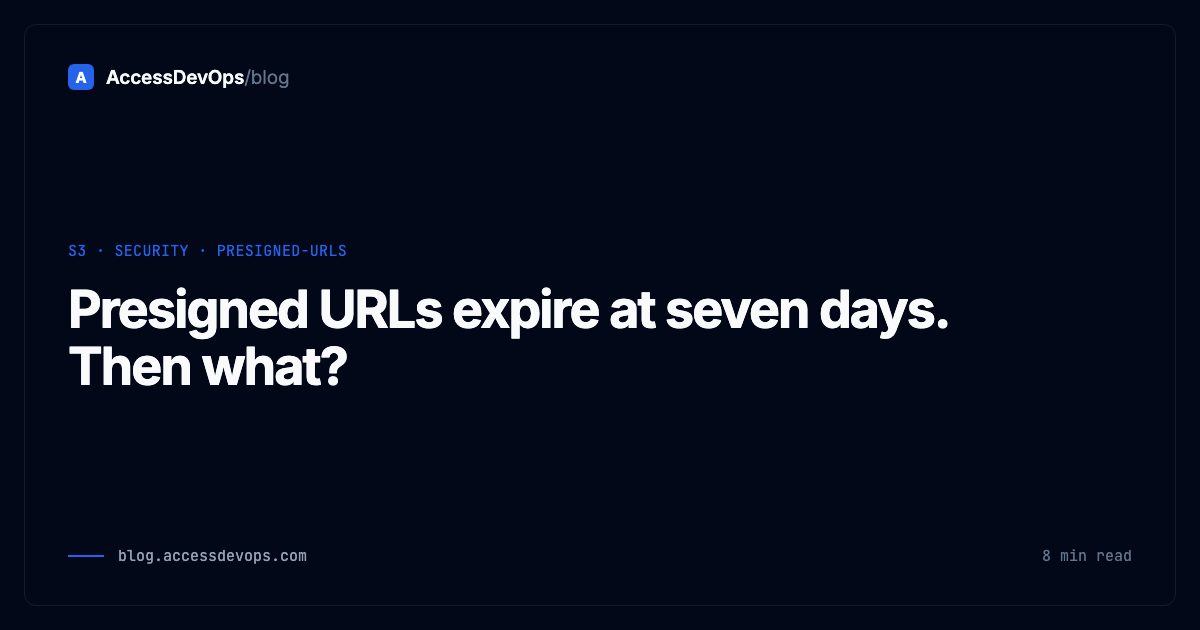
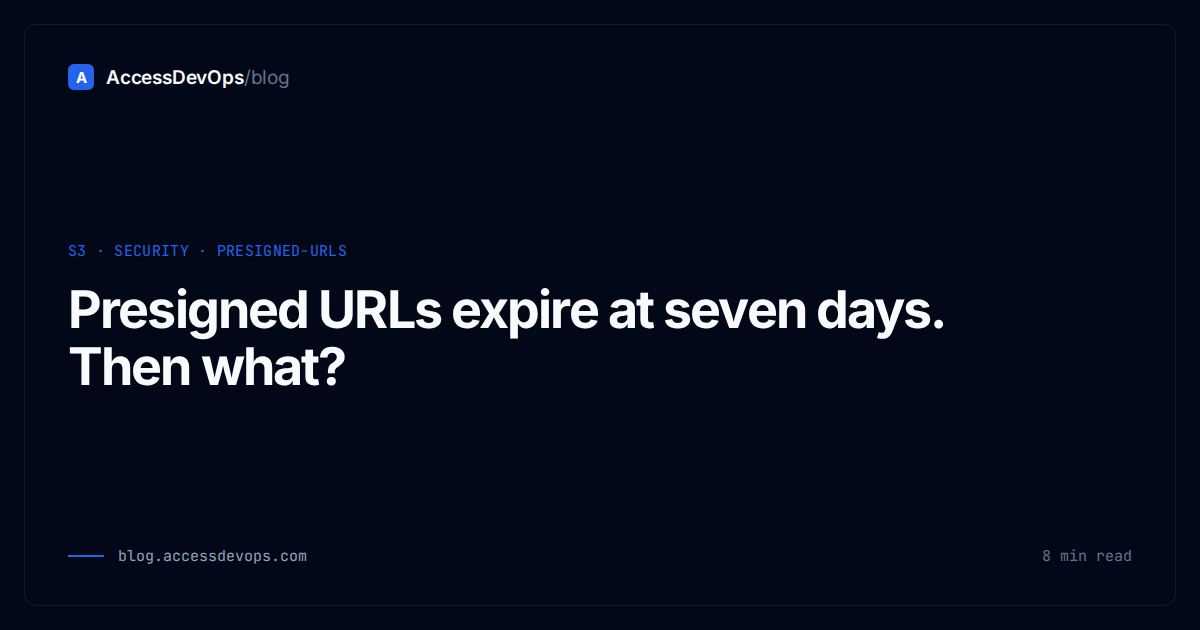
Article: presigned-url-leakage
Chosen for criterion 3: no PostHog key and no Search Console export in this environment, so criteria 1 and 2 are not executable; this topic moves the presigned-urls tag from 1 to 2 posts, making /tags/presigned-urls indexable, and it corrects the s3:signatureAge unit in the sibling article (milliseconds, not seconds).

diff --git a/content/blog/presigned-url-leakage.md b/content/blog/presigned-url-leakage.md
@@ -1,0 +1,189 @@
+---
+title: "Presigned URLs leak into logs, referrers and chat"
+description: "A presigned URL is a working credential stored as text. Where the copy ends up, what it still grants after redaction, and the 15-minute fix."
+date: 2026-11-04
+author: "Clement Baranger"
+tags: ["s3", "security", "presigned-urls"]
+guide: share-s3-file-presigned-url
+related: [presigned-url-seven-day-ceiling, presigned-post-enforce-size-content-type]
+---
+
+A support ticket reads: "the invoice link does not work". The link was pasted into the ticket by an engineer, copied into a CRM note by a salesperson, and fetched by the mail gateway that scanned the ticket. Three copies of a valid credential, in three systems that keep text for years, and one expiry date that nobody in the conversation controls.
+
+## The short version
+
+- A presigned URL is not a link to a file. It is a signature — a working credential written into the address of the object.
+- Anyone holding the string can fetch the object until the moment written inside it. No password, no identity check, no record of who used it.
+- Measured today with botocore 1.43: a 900-second `GET` link is **334 characters**, **1 009** when signed with a session token. The signature is 64 of those characters, and it is the only part that grants access.
+- Every system that stores URIs keeps a copy — access log, CDN, WAF, TLS proxy, the chat client that builds a preview, the ticket where it was pasted — and most keep it for a year, redacting nothing.
+- Kill one leaked URL by deleting its access key and every other live link signed with that key dies in the same second.
+
+## What actually happens
+
+Presigning is arithmetic performed on the client: a canonical request is hashed with a key derived from the secret access key, the date, the region and the service, and the result is appended to the URL. No API call is made — which is why it works offline, and why nobody can stop you from generating a bad one.
+
+That also means the credential is readable text. Building a URL with a throwaway key pair and printing its parameters gives the inventory:
+
+```bash
+python3 -m venv presign-venv && ./presign-venv/bin/pip -q install boto3
+```
+
+```python
+# presign-one.py — no AWS account, no network: fake keys produce a valid structure
+import boto3, urllib.parse
+from botocore.config import Config
+
+s3 = boto3.client("s3",
+    aws_access_key_id="AKIAIOSFODNN7EXAMPLE",
+    aws_secret_access_key="wJalrXUtnFEMI/K7MDENG/bPxRfiCYEXAMPLEKEY",
+    region_name="eu-west-3",
+    config=Config(signature_version="s3v4", s3={"addressing_style": "virtual"}))
+
+url = s3.generate_presigned_url("get_object",
+    Params={"Bucket": "docs-prod", "Key": "contracts/acme-2026.pdf"}, ExpiresIn=900)
+
+print(len(url))                                    # 334
+for k, v in urllib.parse.parse_qsl(urllib.parse.urlparse(url).query):
+    print(f"{k:24} {len(v):4}  {urllib.parse.unquote(v)[:60]}")
+```
+
+The output, trimmed to the columns that matter:
+
+```text
+X-Amz-Algorithm          value=16  AWS4-HMAC-SHA256
+X-Amz-Credential         value=55  <access key id>/20261104/eu-west-3/s3/aws4_request
+X-Amz-Date               value=16  20261104T110619Z
+X-Amz-Expires            value=3   900
+X-Amz-SignedHeaders      value=4   host
+X-Amz-Signature          value=64  4b4ec51ce28bf30ce5e92301ee45a6...
+```
+
+Three things follow from that listing, and none of them is visible when the URL is a blue link in a chat window.
+
+**The URL names the principal.** `X-Amz-Credential` carries the access key ID in clear, with the signing date, region and service. A leaked URL tells the reader which key to hunt for. Signed with temporary credentials, the same query string carries `X-Amz-Security-Token` — 653 characters in the same test, taking the URL to 1 009. That token is not a credential on its own, since SigV4 still needs the matching secret, but it pins the session: a log reader knows which role signed the link and when it ends.
+
+**Only one header is signed.** `X-Amz-SignedHeaders` is `host`. Everything else — `Range`, `User-Agent`, conditional headers — can be added or changed by whoever holds the URL. A 5 GB object behind a 15-minute link is not a 15-minute download: it is as many ranged requests as the holder cares to send inside the window. AWS documents the mirror image in its FAQ — once `Range` *is* signed, S3 demands `If-Range` be signed too, and answers `AccessDenied` with `HeadersNotSigned: if-range` when it is not.
+
+**There is no handle to revoke.** AWS states the position plainly: "In essence, presigned URLs are bearer tokens that grant access to those who possess them." The server never asks who is calling. There is no list of issued URLs, no per-URL delete, no IP binding, no single-use mode — only the expiry inside the link and the validity of the credential behind it.
+
+![Diagram: a presigned URL leaves the signer and is copied into four stores — an application log, a CDN log, a TLS proxy and a chat preview — with the signature granting access until expiry](/diagrams/presigned-url-leakage.svg)
+
+## Where it bites
+
+The interesting part is not that a URL can leak. It is that the industry-standard mitigation removes the wrong half.
+
+AWS's prescriptive guidance on presigned URLs recommends redacting the `X-Amz-Signature` parameter from any URI log, and says S3 does it: "Amazon S3 server access logs include the request URI but redact the `X-Amz-Signature` … The same is true when CloudTrail data events are logged for Amazon S3." Applying the published regex `X-Amz-Signature=[a-f0-9]{64}` to the URL above leaves this:
+
+```text
+https://docs-prod.s3.eu-west-3.amazonaws.com/contracts/acme-2026.pdf
+  ?X-Amz-Algorithm=AWS4-HMAC-SHA256
+  &X-Amz-Credential=<key id>%2F20261104%2Feu-west-3%2Fs3%2Faws4_request
+  &X-Amz-Date=20261104T110534Z
+  &X-Amz-Expires=900
+  &X-Amz-SignedHeaders=host
+  &X-Amz-Signature=XXXXXXXX…XXXXXXXX
+```
+
+Redaction kills replay, which is the important half. It does not hide the key ID, the signing date, the region, the expiry, or the session token. A log therefore remains an identity disclosure after redaction, and its reader learns which credential to attack — a smaller problem than a live link, and a much larger one than zero.
+
+| Where the URL is written | What survives | What it costs you |
+|---|---|---|
+| Application access log (`nginx`, API gateway) | The whole query string by default | A year of replayable links on disk |
+| S3 server access log, CloudTrail data events | URI with `X-Amz-Signature` redacted | Identity and expiry disclosure only |
+| CDN, WAF, load-balancer logs | Usually the full URI | The same, in a system with wider read access |
+| TLS-inspecting proxy, mail gateway | Full URI, plus the body | The proxy team holds your links |
+| Chat client, ticket, CRM, PDF | The literal string, forever | Outlives every retention policy on the bucket |
+
+Two failure modes hide in that table.
+
+**The link preview that spends the link.** Paste a presigned URL into a chat client or a ticketing tool and that service fetches it to render a preview or scan for malware. The request is real and appears in your access logs, so the first "click" in your analytics is a bot from a datacentre IP you do not recognise.
+
+**The seven-day window nobody chose.** Asked for "a link that works for a month", the SDK returns the maximum instead of an error. That link then sits in a log for a week, which is where redaction is the only thing between a log reader and the object. The mechanics of that ceiling, and the three other clocks that shorten a link, are in [Presigned URLs expire at seven days. Then what?](/blog/presigned-url-seven-day-ceiling).
+
+Upload URLs fail differently, because the signed policy is the whole document. A presigned `PUT` that does not pin content type and size hands the holder permission to write any file of any size under that key — the mechanism and the exact condition syntax are in [Presigned POST: cap size and type before the upload starts](/blog/presigned-post-enforce-size-content-type).
+
+## Doing it right
+
+**1. Shorten the window until it hurts.** Fifteen minutes covers a click-through. Anything longer is a decision, not a default. Measure what you actually issue rather than what you asked for:
+
+```bash
+grep -o 'X-Amz-Expires=[0-9]*' /tmp/presigned.url
+```
+
+**2. Put a floor under the TTL at the bucket.** The `s3:signatureAge` condition key caps how old a signature may be, regardless of what the URL claims. It is expressed in **milliseconds** — 900 000 is fifteen minutes, not 900 seconds — and AWS notes that values below 60 seconds produce random failures on clock skew:
+
+```json
+{
+  "Version": "2012-10-17",
+  "Statement": [{
+    "Sid": "DenyPresignedOver15Minutes",
+    "Effect": "Deny",
+    "Principal": "*",
+    "Action": "s3:*",
+    "Resource": "arn:aws:s3:::docs-prod/*",
+    "Condition": { "NumericGreaterThan": { "s3:signatureAge": "900000" } }
+  }]
+}
+```
+
+A `Deny` beats any `Allow`, whatever the order of the statements, which is why a bucket policy is the right place for this and not the application.
+
+**3. Deny query-string authentication where it is never needed.** `s3:authType` distinguishes header-signed requests (`REST-HEADER`) from presigned ones (`REST-QUERY-STRING`). Buckets that are only read by services can refuse every presigned request outright:
+
+```json
+{
+  "Sid": "DenyNonHeaderAuth",
+  "Effect": "Deny",
+  "Principal": "*",
+  "Action": "s3:*",
+  "Resource": "arn:aws:s3:::docs-prod/*",
+  "Condition": { "StringNotEquals": { "s3:authType": "REST-HEADER" } }
+}
+```
+
+AWS warns about the side effect: the S3 console downloads objects with presigned URLs, so on a bucket carrying this statement the console's Download button stops working for everyone without an exception.
+
+**4. Redact in your own logs, then check that you did.** AWS publishes the pattern; use it in the log format rather than in a downstream parser you will forget to update.
+
+```bash
+# nginx: map the query away before it reaches the log line
+map $args $safe_query {
+    default            "";
+    "~^(?<keep>.*)X-Amz-Signature=[a-f0-9]{64}(?<rest>.*)$"  "$keep""X-Amz-Signature=REDACTED""$rest";
+}
+log_format redacted '$remote_addr "$request_method $uri?$safe_query" $status';
+
+# and prove it on the files you already have
+grep -rlE 'X-Amz-Signature=[a-f0-9]{64}' /var/log/ /var/awslogs/ 2>/dev/null | head
+```
+
+That `grep` is the audit: every file it prints holds live credentials for the length of their TTL.
+
+**5. Make single-use links real, in your own state.** S3 has no single-use mode. A nonce table is enough: mint the URL behind your own authentication, store a hash of the nonce with the object key, delete the row on the first successful redirect to S3. A second request with the same nonce gets a 410 from your server, not from S3.
+
+**6. Do not try to bind a URL to an IP.** You cannot put an IP into the signature. What you can do is restrict the signing principal with `aws:SourceIp` — evaluated at request time against the address the request arrives from, not the address of the service that signed it.
+
+## How S3 Explorer fits
+
+When a link fails, the question is which credential signed it, against which endpoint, and whether that key still sees the bucket. S3 Explorer's connection form takes a display name, endpoint, region, path-style toggle and credentials, and **Test connection** reports how many buckets those credentials can actually see before you save the profile — the difference between an expired link and a key that lost its permission. The **per-request metrics dashboard** counts the session's API calls by category, turning a wall of 403s into a number, and switching between connection profiles puts production and staging side by side. [S3 Explorer](https://s3explorer.accessdevops.com) runs on Windows, macOS and Linux.
+
+## Checklist
+
+- [ ] Every `generate_presigned_url` call site passes an explicit `ExpiresIn`, and no value exceeds 900.
+- [ ] `grep -rE 'X-Amz-Signature=[a-f0-9]{64}'` over your log directories returns nothing.
+- [ ] A bucket policy `Deny` on `s3:signatureAge` (milliseconds) exists on every bucket that issues links.
+- [ ] Buckets read only by services carry the `s3:authType` deny, with console users exempted if they need it.
+- [ ] Single-use links are enforced by a nonce table on your side, not by hoping.
+- [ ] The signing credential is dedicated, temporary, and scoped to the prefix that needs it.
+- [ ] Support and sales know that a pasted link is a credential: the runbook says rotate, not "wait for it to expire".
+- [ ] You have replayed a redacted log line and seen which fields are still readable.
+
+## Sources
+
+- [AWS Prescriptive Guidance — Logging interactions and mitigations](https://docs.aws.amazon.com/prescriptive-guidance/latest/presigned-url-best-practices/logging-interactions.html): the bearer-token framing, the S3 access-log and CloudTrail redaction of `X-Amz-Signature`, and the `X-Amz-Signature=[a-f0-9]{64}` pattern.
+- [AWS Prescriptive Guidance — Additional guardrails](https://docs.aws.amazon.com/prescriptive-guidance/latest/presigned-url-best-practices/additional-guardrails.html): `s3:signatureAge` in milliseconds, the 60-second practical floor, `s3:authType` `REST-QUERY-STRING` versus `REST-HEADER`, and the console caveat.
+- [AWS Prescriptive Guidance — Foundational best practices](https://docs.aws.amazon.com/prescriptive-guidance/latest/presigned-url-best-practices/foundational-best-practices.html): `aws:SourceIp` evaluated at request time from the requesting system.
+- [Amazon S3 — Download and upload objects with presigned URLs](https://docs.aws.amazon.com/AmazonS3/latest/userguide/using-presigned-url.html): "presigned URLs are bearer tokens", the console's 1-minute-to-12-hour range, the `HeadersNotSigned: if-range` error.
+- [Amazon S3 — Server access log format](https://docs.aws.amazon.com/AmazonS3/latest/userguide/LogFormat.html): the `Request-URI` field example carrying a query string, and `Authentication Type` = `QueryString` for presigned requests.
+
+Measurements taken on 4 November 2026 with botocore 1.43.123, `eu-west-3`, virtual-hosted addressing, bucket `docs-prod`, key `contracts/acme-2026.pdf`, `ExpiresIn=900`; the key pair is the AWS documentation placeholder, never a real credential.

diff --git a/content/blog/presigned-url-seven-day-ceiling.md b/content/blog/presigned-url-seven-day-ceiling.md
@@ -73,7 +73,7 @@ return redirect(url, status_code=302)
 
 `ResponseContentDisposition` is signed along with the request, so the filename a customer sees cannot be altered by editing the URL.
 
-**2. Cap the age in the bucket, not in the caller.** A bucket policy `Deny` on `s3:signatureAge` rejects any SigV4 presigned request older than a number of seconds you set, whatever the URL claims. A `Deny` always wins over an `Allow` — the evaluation order behind that is covered in [When two policies allow and the request still fails](/blog/bucket-policy-allow-still-denied).
+**2. Cap the age in the bucket, not in the caller.** A bucket policy `Deny` on `s3:signatureAge` rejects any SigV4 presigned request older than a number of **milliseconds** you set — 900 000 is fifteen minutes — whatever the URL claims. A `Deny` always wins over an `Allow` — the evaluation order behind that is covered in [When two policies allow and the request still fails](/blog/bucket-policy-allow-still-denied).
 
 ```json
 {
@@ -84,7 +84,7 @@ return redirect(url, status_code=302)
     "Principal": "*",
     "Action": "s3:GetObject",
     "Resource": "arn:aws:s3:::docs-prod/*",
-    "Condition": { "NumericGreaterThan": { "s3:signatureAge": "900" } }
+    "Condition": { "NumericGreaterThan": { "s3:signatureAge": "900000" } }
   }]
 }
 ```
